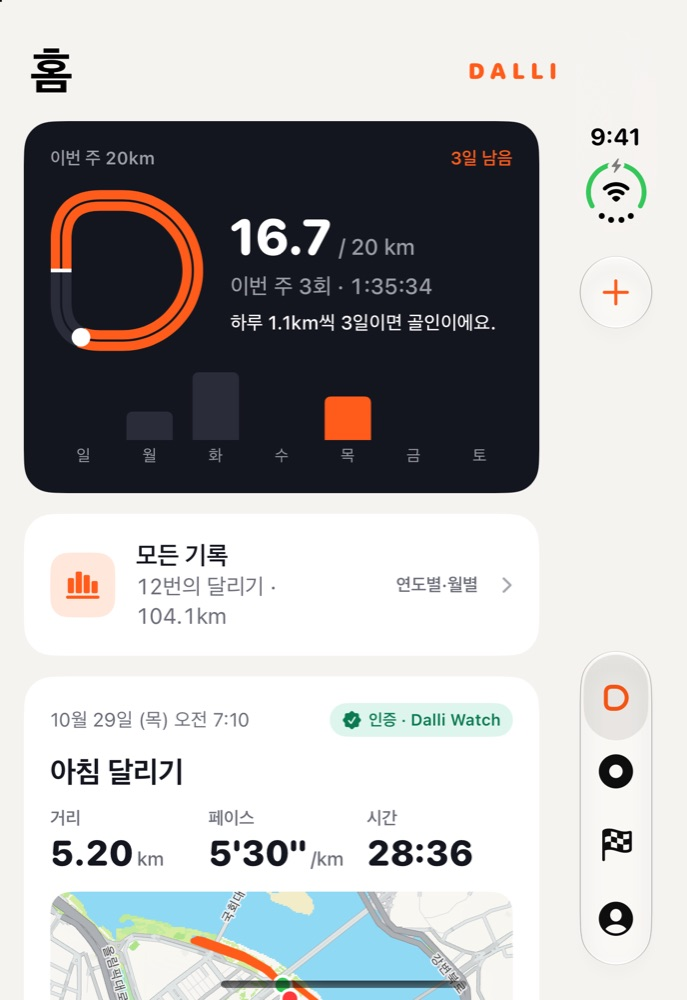
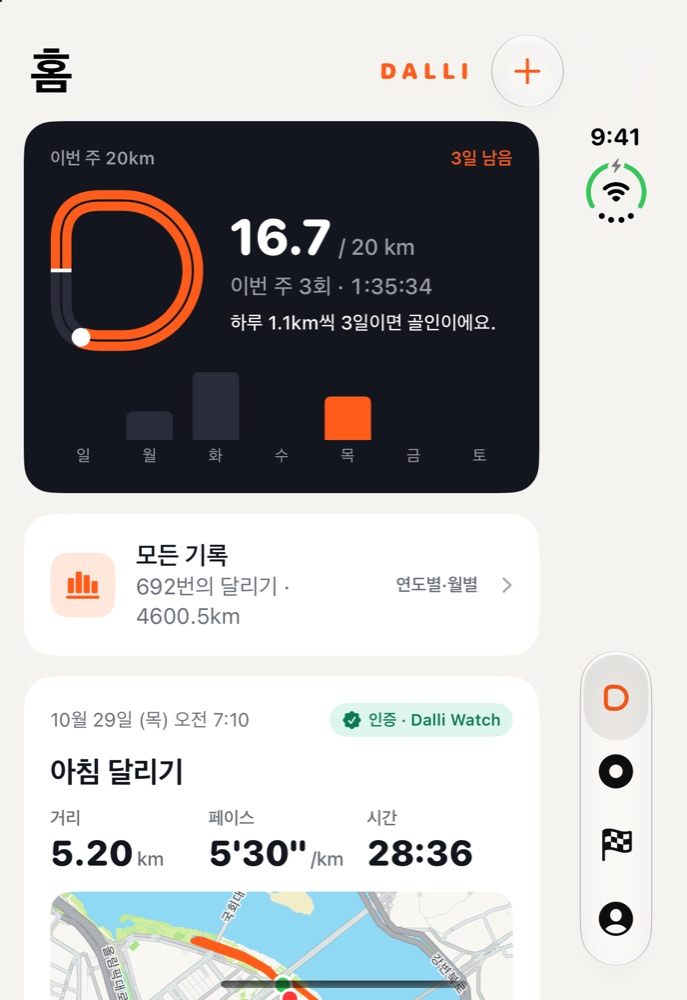
Add the All runs screen to the gallery

Changed region(s): [[0.1834, 0.558, 0.3974, 0.62], [0.5502, 0.062, 0.8253, 0.093], [0.8865, 0.279, 0.917, 0.31]]

diff --git a/index.html b/index.html
@@ -308,6 +308,10 @@
       </figure>
       <figure class="shot">
         <div class="phone"><img data-shot="6" src="assets/screens/ko/iphone-6.jpg" loading="lazy" alt=""></div>
+        <figcaption><span class="ko">몇 년 치 달리기도 한눈에<small>모든 기록 · 연도별·월별 통계</small></span><span class="en">Years of runs, at a glance<small>All runs · yearly and monthly stats</small></span></figcaption>
+      </figure>
+      <figure class="shot">
+        <div class="phone"><img data-shot="7" src="assets/screens/ko/iphone-7.jpg" loading="lazy" alt=""></div>
         <figcaption><span class="ko">시작 버튼 하나로<small>기록</small></span><span class="en">Start with one tap<small>Record</small></span></figcaption>
       </figure>
     </div>
